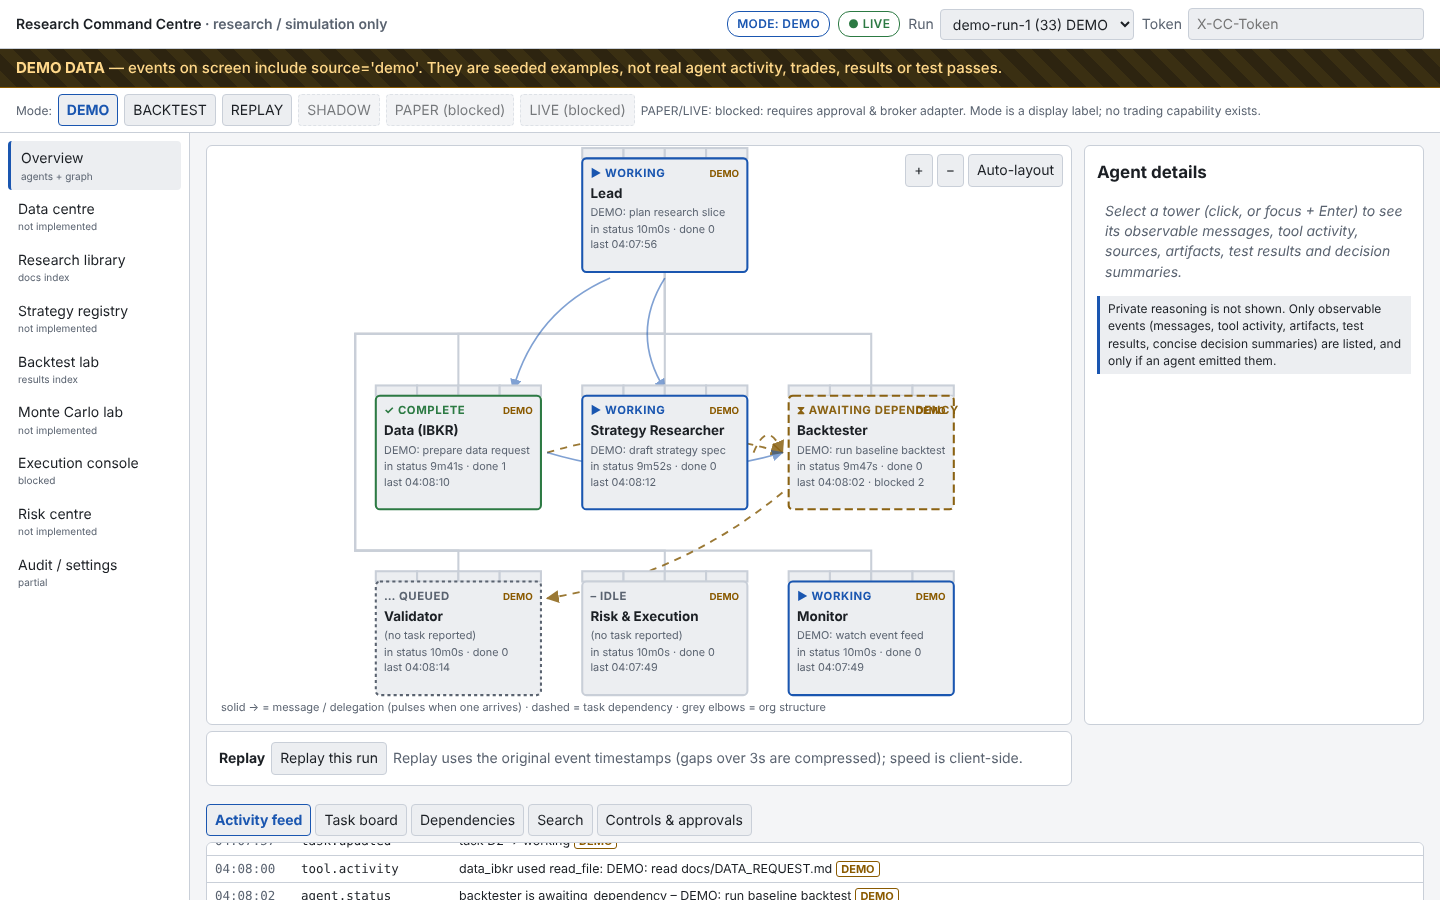
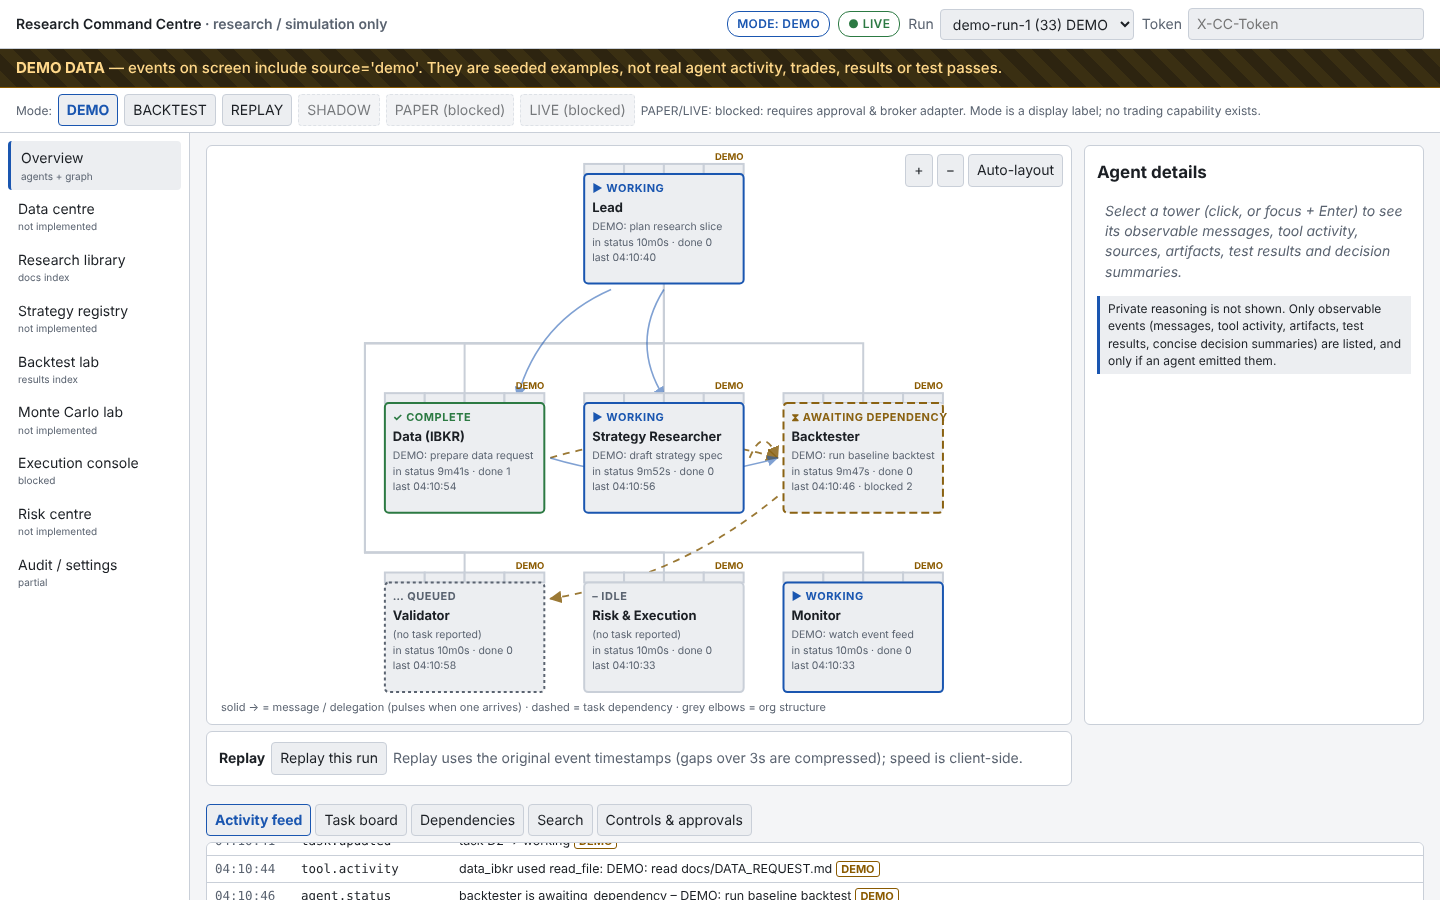
WIP: command centre dark-theme fix in progress; checklist update
Claude-Session: https://claude.ai/code/session_01G2nZN4iY9maCiAtmoPyBv3

Changed region(s): [[0.25, 0.1556, 0.6875, 0.7778], [0.1562, 0.9644, 0.1875, 1.0]]

diff --git a/research/command_center/static/app.js b/research/command_center/static/app.js
@@ -224,8 +224,8 @@ function panKey(ev) { const d = 40; if (ev.key === "ArrowLeft") S.view0.x += d; 
 function applyView() { const v = S.view0; G.root.setAttribute("transform", `translate(${v.x},${v.y}) scale(${v.k})`); }
 function fitGraph() {
   const r = G.svg.getBoundingClientRect(); if (!r.width) return;
-  const w = 640, hgt = 410 + TH + 40; const k = Math.min(r.width / w, r.height / hgt, 1.4);
-  S.view0 = {k, x: r.width / 2 + 25 * k, y: (r.height - hgt * k) / 2 + (TH / 2 + 12) * k, auto: true}; G.fitted = true; applyView();
+  const w = 640, hgt = 410 + TH + 60; const k = Math.min(r.width / w, r.height / hgt, 1.4);
+  S.view0 = {k, x: r.width / 2 + 25 * k, y: (r.height - hgt * k) / 2 + (TH / 2 + 28) * k, auto: true}; G.fitted = true; applyView();
 }
 function zoomAt(f, cx, cy) {
   const r = G.svg.getBoundingClientRect(); cx = (cx == null ? r.left + r.width / 2 : cx) - r.left; cy = (cy == null ? r.top + r.height / 2 : cy) - r.top;

diff --git a/research/command_center/derive.py b/research/command_center/derive.py
@@ -33,6 +33,7 @@ def snapshot(events: list[dict], run_id, max_seq: int, concurrency_budget: int =
     concurrency = None
     sources: set[str] = set()
     last_ts = None
+    status_done: list[tuple] = []  # (agent, task text, seq) for transitions into 'complete'
 
     def touch(a, ts, demo):
         if a in agents:
@@ -52,6 +53,8 @@ def snapshot(events: list[dict], run_id, max_seq: int, concurrency_budget: int =
             ag = agents[aid]
             if ag["status"] != p["status"]:
                 ag["status_since"] = ts
+                if p["status"] == "complete":
+                    status_done.append((aid, p.get("task"), e["seq"]))
             ag["status"] = p["status"]
             ag["task"] = p.get("task")
             ag["reported_blockers"] = p.get("blockers") or []
@@ -106,9 +109,22 @@ def snapshot(events: list[dict], run_id, max_seq: int, concurrency_budget: int =
             if p["command"] == "set_concurrency" and p["accepted"]:
                 concurrency = p.get("args", {}).get("value")
 
+    # completed_count rule: distinct completed tasks owned by the agent (task.created/updated -> complete)
+    # + each agent.status transition into 'complete' whose task text is not already a counted task title
+    # (deduped by task text; with no task text each transition counts once).
+    done_titles: dict[str, set] = {a: set() for a in agents}
     for tk in tasks.values():
         if tk["owner"] in agents and tk["status"] == "complete":
             agents[tk["owner"]]["completed_count"] += 1
+            done_titles[tk["owner"]].add(tk["title"])
+    counted: dict[str, set] = {a: set() for a in agents}
+    for a, task_text, seq in status_done:
+        key = task_text if task_text else f"#seq{seq}"
+        if key in done_titles[a] or key in counted[a]:
+            continue
+        counted[a].add(key)
+        agents[a]["completed_count"] += 1
+    for tk in tasks.values():
         tk["depends_on"] = [d["depends_on"] for d in deps if d["task_id"] == tk["task_id"]]
         tk["unmet"] = [d for d in tk["depends_on"] if tasks.get(d, {}).get("status") != "complete"]
     for a, ag in agents.items():

diff --git a/research/command_center/seed_demo.py b/research/command_center/seed_demo.py
@@ -47,7 +47,7 @@ def demo_events(run_id="demo-run-1", base=None):
     ev(14, "task.updated", "backtester", task_id="D3", status="awaiting_dependency")
     ev(18, "artifact.created", "data_ibkr", path="docs/DATA_REQUEST.md", title="DEMO artifact link (existing doc, not produced by a demo agent)")
     ev(20, "task.updated", "data_ibkr", task_id="D1", status="complete")
-    ev(20, "agent.status", "data_ibkr", status="complete", task="DEMO: prepare data request")
+    ev(20, "agent.status", "data_ibkr", status="complete", task="DEMO: define data request")
     ev(22, "message.sent", "data_ibkr", sender="data_ibkr", recipient="backtester", preview="DEMO: data request is ready")
     ev(24, "decision.summary", "strategy_researcher", summary="DEMO: keep the spec to one strategy, as per project rules", sources=["research/CLAUDE.md"])
     ev(26, "test.result", "validator", name="DEMO placeholder check", outcome="skip", detail="DEMO row only - no test was run")

diff --git a/research/command_center/README.md b/research/command_center/README.md
@@ -1,0 +1,72 @@
+# Research Command Centre (slice 2)
+
+Single-user, **local-only, research/simulation-only** dashboard for the tradelab agent team.
+It imports and calls **no broker or trading API** (a static test enforces this). Nothing here can place orders.
+
+## Run
+```bash
+cd research
+bash command_center/run.sh            # http://127.0.0.1:8765  (CC_PORT, CC_DB, CC_TOKEN, CC_MAX_CONCURRENCY env vars)
+python command_center/seed_demo.py    # labelled DEMO events (source='demo'); idempotent
+python command_center/emit.py --type message.sent --agent lead --recipient backtester --preview 'please run baseline'
+python -m pytest tests/test_cc_*.py -q
+python command_center/verify_e2e.py   # Playwright end-to-end check, temp DB + own port, writes screenshots/
+```
+The server prints the `X-CC-Token` at start (random unless `CC_TOKEN` is set; a random one is also written to
+`command_center/.cc_token`, git-ignored, which `emit.py`/`seed_demo.py` read). Paste it into the header "Token" box
+to use the Controls. GET endpoints need no token (loopback only; non-local Host/Origin headers are refused).
+Stack: Python stdlib only (see `requirements.txt`); frontend is static files, no build, no CDN, works offline.
+
+## Architecture
+- `schemas.py` – roles, statuses, modes, **versioned payload schemas** (`SCHEMAS[type][version]`), validation.
+- `store.py` – SQLite WAL `events` table, append-only (UPDATE/DELETE blocked by triggers), idempotent insert by `event_id`
+  (duplicates are ignored and reported; they do not consume a `seq`).
+- `derive.py` – builds the snapshot from events (single source of truth for the UI) + stale logic.
+- `server.py` – HTTP API + static files. `static/` – the UI. `emit.py`, `seed_demo.py`, `run.sh`, `verify_e2e.py`.
+
+### API
+| Endpoint | Notes |
+|---|---|
+| `POST /api/events` | token required; one event, a list, or `{events:[...]}`; response lists accepted (with seq) / duplicates / rejected |
+| `GET /api/events?after_seq=&limit=&run_id=&upto_seq=` | history with original timestamps (replay source) |
+| `GET /api/snapshot?run_id=&upto_seq=` | derived agents/tasks/deps/messages/artifacts/approvals/commands; default run = latest |
+| `GET /api/stream?run_id=` | SSE; honours `Last-Event-ID` (= seq) or `last_event_id=`; replays missed then live; `event: ping` every 5s + `: hb` comment |
+| `GET /api/search?q=&run_id=` | substring search over stored events |
+| `GET /api/runs`, `/api/health`, `/api/docs`, `/api/results` | run list, health, `../docs/*.md` and `../results/daily/*.md` indexes (read-only) |
+| `POST /api/commands` | token required: `assign_task`, `request_update`, `cancel_research`, `approve_proposal`, `set_concurrency` (1..3, within `CC_MAX_CONCURRENCY`), `set_mode` |
+
+Commands only **record** a `command.recorded` event (refusals are recorded too) and reply "recorded, no runtime attached";
+nothing is executed or started. `cancel_research` states it never touches positions or protective orders.
+`PAPER`/`LIVE` are refused ("blocked: requires approval & broker adapter"), also via `mode.changed` events; `SHADOW` is not implemented.
+
+### Event schema
+Envelope: `seq` (autoinc), `event_id` (unique, idempotency key), `event_type`, `timestamp_utc` (ISO, normalised to ms `Z`),
+`run_id` (default `live`), `agent_id` (one of the 7 role ids), `parent_task_id`, `correlation_id`, `source` (required;
+`demo` = seeded example, drives the DEMO banner), `status`, `payload_version`, `payload`.
+Roles: `lead, data_ibkr, strategy_researcher, backtester, validator, risk_execution, monitor`.
+Statuses: `queued, working, awaiting_dependency, awaiting_approval, idle, failed, complete`.
+Types and required payload fields (v1): `agent.status{status}` (+optional `task, blockers, usage`), `task.created{task_id,title}`,
+`task.updated{task_id}`, `task.dependency{task_id,depends_on}`, `message.sent{sender,recipient,preview}` (+`kind: message|delegation`),
+`tool.activity{tool,summary}` (+`sources`), `artifact.created{path}`, `test.result{name,outcome}`, `decision.summary{summary}`,
+`incident{severity,summary}`, `mode.changed{mode}`, `approval.requested{approval_id,summary}`, `approval.resolved{approval_id,resolution}`,
+`heartbeat`, `command.recorded{command,accepted,runtime_attached,message}`.
+Dependencies (`task.dependency`, dashed edges) are deliberately distinct from messages (`message.sent`, solid edges that pulse).
+Usage/tokens are shown **only** if an `agent.status` event carried `usage`; no percentage completion or cost is ever computed.
+
+### UI behaviour
+Persistent mode badge + mode bar (DEMO/BACKTEST/REPLAY selectable; SHADOW/PAPER/LIVE disabled with reasons); DEMO banner and per-item DEMO tags whenever
+displayed data has `source='demo'`; connection badge connecting/live/reconnecting/STALE (no ping/event for 15s -> "STALE: showing last known state as of HH:MM:SS",
+UI greyed and inputs disabled); refresh = `/api/snapshot` + `/api/events` replay, then SSE from the highest seq (client dedupes by seq);
+edges animate only when a real `message.sent` arrives live or during replay; reduced-motion disables travelling dots;
+keyboard: Tab/arrows/Enter on towers, `+ - 0` on the graph; replay with 0.5-8x speed (client-side, original timestamps, gaps >3s compressed).
+Screens: Overview + agent panel are real; Research library (docs index + viewer) and Backtest lab (results/daily index, empty if none) are read-only indexes;
+Audit/settings shows the command log; Data centre, Strategy registry, Monte Carlo lab, Execution console, Risk centre render "Not implemented in this slice: <prerequisite>".
+
+## Limitations (honest)
+- **Claude Code interactive agent-team peer messages are NOT observable by this app.** Only events posted via `emit.py`/`POST /api/events` (or future hooks)
+  appear. The coordinator must emit real delegations explicitly. Anything not emitted is invisible, and agents with no events show "no events yet".
+- App-owned agents (via the Agent SDK) are **not implemented**; there is no runtime, so commands are recorded only and concurrency is a stored, unenforced setting.
+- Private reasoning is never captured or shown.
+- Single local user; token is a shared secret in a header, not user auth. SSE polls the DB every 0.25s (fine for local use, not for scale).
+- Verified in Chromium only (headless). Not tested: Firefox/Safari, screen readers, touch devices, very large histories.
+- DEMO events are seeded examples; `seed_demo.py` data are not real activity, results or test passes.

diff --git a/research/docs/TASKS.md b/research/docs/TASKS.md
@@ -1,6 +1,6 @@
 # Resumable checklist (update as work completes; link evidence)
 Slice 1 Inventory & preserve .......... [x] PROJECT_INVENTORY, DECISIONS, this file, RESEARCH_INDEX
-Slice 2 Durable events + dashboard ..... [~] worker running (command_center/). Verify: pytest tests/test_cc_*.py, screenshots
+Slice 2 Durable events + dashboard ..... [~] built; coordinator verified 32 tests, live page, token refusal, real events. Open: dark theme (spec says dark neutral; was light), completed-count showed 0 (fix requested); other screens are honest stubs; no agent runtime/SDK attached; Claude Code team peer messages not observable (only emit.py events)
 Slice 3 IBKR import + dictionary ....... [ ] BLOCKED B1 (need Flex sample) — build parsers against user-provided files only
 Slice 4 One strategy end-to-end ........ [x] H3 daily: implemented, reviewed, V1 REJECTED on train/val; sealed test intentionally unspent (docs/DAILY_RESULTS.md, REVIEW.md)
           open items: fix D-04 (split label of last bar), D-05 (strategy id vs log id), D-08 (freeze hash should cover code+data SHA)
